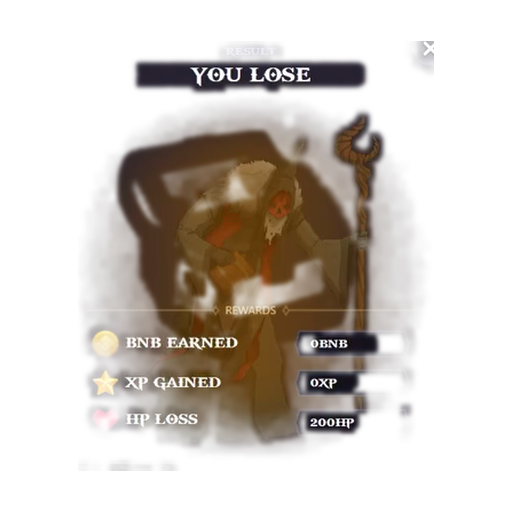
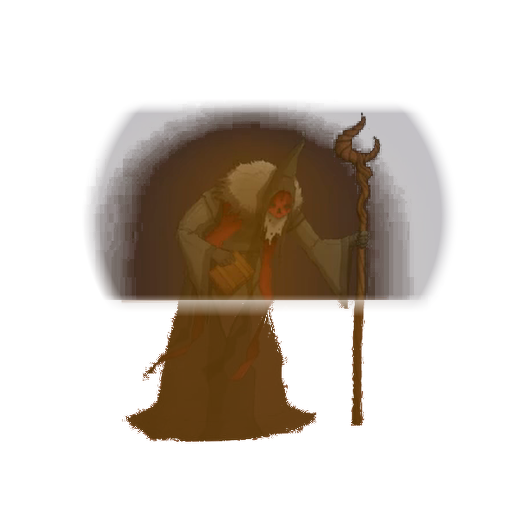
Fix card states and clean RESULT artwork

diff --git a/research/media_hunt/final-promotions/PROVENANCE.md b/research/media_hunt/final-promotions/PROVENANCE.md
@@ -1,19 +1,25 @@
-# Final hashed-media promotion provenance — 2026-09-03
+# Final hashed-media promotion provenance — updated 2026-09-04
 
 This directory records the last six hashed media files that were unavailable as direct 2021 game-client bytes. Raw historical evidence is preserved separately. Runtime derivatives must never be described as byte-identical originals unless explicitly stated.
 
 ## `card.df50fb38.png` — RECONSTRUCTED_FROM_PERIOD_PIXELS
 - Runtime dimensions: 459×654.
 - Source: official BNB HEROES 2021 minting/gameplay video `WZwbq7Va0gg` recovered at 1920×1080.
-- The same open-card slot appears repeatedly in the Town Inn grid. 210 detected occurrences were grouped into the dominant open-card cluster.
-- The period-video cluster was median stacked, edge-trimmed and resized to the exact runtime dimensions.
+- Corrected semantic mapping on 2026-09-04: the open/recruitable slot is the plain BNB HEROES card back, Cluster 2 (45 period occurrences), not the padlock Cluster 0.
+- The period-video cluster was median stacked, edge-trimmed and resized to the exact runtime dimensions using the recovered transform documented in the card proof.
 - See `../card-analysis/CARD_SLOT_RECOVERY_PROOF.md`.
 
 ## `card_lock.c211f00f.png` — RECONSTRUCTED_FROM_PERIOD_PIXELS
 - Runtime dimensions: 459×654.
 - Source: same official 2021 video.
-- 51 repeated locked-card occurrences form a separate visual cluster from the open card.
-- Median stack promoted after exact runtime-size reconstruction.
+- Corrected semantic mapping on 2026-09-04: Town-Inn-locked slots use the padlock artwork, Cluster 0 (210 occurrences). Recovered bundle control flow independently proves module 174 is rendered when `unlock === false` beside `Upgrade Town Inn`.
+- The prior runtime had the padlock and question-mark meanings assigned to the wrong states; pre-correction bytes are preserved under `archive/pre-card-semantic-fix-20260904/`.
+
+## `cards/unkown.png` — RECONSTRUCTED_FROM_PERIOD_PIXELS
+- Runtime dimensions: 459×654.
+- Recovered bundle uses this path for a Hero whose `arrivalTime` is still pending.
+- Official footage shows the yellow question-mark card immediately after Recruit and until EXPEDITE / arrival completes. It is Cluster 1 (51 occurrences).
+- This replaces the restoration-only `HERO ART LOST` placeholder for the pending-arrival state; it is not a generic missing-Hero-art substitute.
 
 ## `recruit_card.aa5e12c7.png` — FIRST_PARTY_PERIOD_ASSET_ADAPTED
 - Runtime dimensions: 459×654.
@@ -26,14 +32,19 @@ This directory records the last six hashed media files that were unavailable as 
 - Runtime dimensions: 512×512.
 - Original bundle proves this image is rendered in the RESULT modal at width 500px beneath DOM text (`RESULT`, `ENEMY DEFEATED`, reward numbers).
 - Period win RESULT evidence exists in `../matters-result/result-win-20211208.png` and the recovered `../video-diff/win/` frame set.
-- Win/lose median frames were compared; the central result-art component is the major changing connected component (approximately x=505..778, y=271..565 in the 1280×720 captured frame set).
-- Runtime derivative uses those period pixels with a soft differential alpha mask on a 512×512 transparent canvas.
+- 2026-09-04 audit found the previous promoted `win-diffart.png` accidentally contained the RESULT title, `ENEMY DEFEATED`, `REWARDS`, BNB/XP/HP labels and value boxes. The bundle renders those separately, causing visible duplicated text in runtime.
+- Corrected runtime uses the period chest/glow aligned from the 8-Dec Matters RESULT screenshot. A second reviewer frame aligns to the same chest geometry with 174/183 SIFT inliers (95.1%), independently validating placement.
+- The exact 2021 modal background and exact `reward-seperator` PNG were recovered from bundle CSS/JS. Only the separator's 16px occlusion footprint requires reconstruction beneath the DOM layer; the final DOM separator covers that footprint again at runtime.
+- See `research/proofs/result-art-cleanup-20260904/PROOF.md`.
 
 ## `You lose.00f95b2b.png` — RECONSTRUCTED_FROM_PERIOD_PIXELS
 - Runtime dimensions: 512×512.
 - Original bundle proves loss condition (`Number(Q.rewards)==0`) renders this image at width 500px with DOM text `You LosE` above it.
 - Recovered period lose-frame set is under `../video-diff/lose/`.
-- Same differential extraction method as win is used, preserving the period loss artwork rather than inventing a replacement.
+- 2026-09-04 audit found the prior promoted `lose-diffart.png` likewise contained title/separator/reward-row DOM pixels and visibly duplicated them in runtime.
+- Corrected art uses the actual period Result Mage + orange glow above the reward separator. The lower Mage pixels hidden by reward-row DOM in the video are reconstructed from the first-party GitBook `Level 2 Skull Enemies.jpg`; SIFT against the period Result view validates the same artwork and target geometry (43/52 inliers at the stable fit before lower-patch use).
+- The lower first-party patch is color-fit only from visible overlapping period Mage pixels and is explicitly a period-derived reconstruction, not original hashed bytes.
+- See `research/proofs/result-art-cleanup-20260904/PROOF.md`.
 
 ## `fight.42bbd04e.png` — RECONSTRUCTED_FROM_PERIOD_PIXELS
 - Runtime dimensions: 512×512.
@@ -45,11 +56,12 @@ This directory records the last six hashed media files that were unavailable as 
 - Superseded creative runtime bytes are archived at `archive/pre-fight-period-recovery-20260903/fight.42bbd04e.png`.
 
 ## Runtime promotion hashes
[11 lines of base64/hex data omitted]
 
 All previous runtime placeholders are preserved under `backups/`.

diff --git a/research/proofs/result-art-cleanup-20260904/PROOF.md b/research/proofs/result-art-cleanup-20260904/PROOF.md
@@ -1,0 +1,97 @@
+# RESULT artwork cleanup proof — 2026-09-04
+
+## What was wrong
+
+The 2026-09-03 restoration promoted `research/media_hunt/result-analysis/reconstructed/win-diffart.png` and `lose-diffart.png` directly into the two legacy hashed RESULT-art paths. Those files were useful differential-analysis intermediates, but they contained more than artwork: the captured RESULT title, win/lose heading, `REWARDS` separator, BNB/XP/HP rows, value boxes, and small modal fragments.
+
+The recovered 17-Nov bundle renders all of those elements separately in DOM. Therefore the intermediate images caused visible duplicated text/rows in the restored runtime. Browser evidence under `research/browser-regression/2026-09-03-boss-result-win.png` shows the duplicated `ENEMY DEFEATED` and overlapping reward rows.
+
+Superseded contaminated bytes are preserved, not deleted:
+
+- `archive/pre-result-cleanup-20260904/rewards.16b2db64.png`
+- `archive/pre-result-cleanup-20260904/You lose.00f95b2b.png`
+
+## Bundle layer proof
+
+The recovered bundle around the Result modal proves this layer order:
+
+1. exact modal frame/background from `.modal .content` CSS;
+2. DOM title `RESULT`;
+3. DOM result heading (`You LosE` or `ENEMY DEFEATED`);
+4. `result-bg` image: `rewards.16b2db64.png` or `You lose.00f95b2b.png`;
+5. separate base64 `reward-seperator` image;
+6. separate DOM BNB / XP / HP rows and value boxes.
+
+The exact original 2021 modal background was recovered from the CSS base64 (694x822 RGBA). The exact original `reward-seperator` was recovered from the JS base64 (582x27 RGBA). This makes it possible to distinguish artwork from UI without guessing which text belongs to which layer.
+
+## Win / treasure artwork
+
+Primary period source:
+
+- committed proof copy: `evidence/win-period-result.png`
+- archaeology workspace source: `research/media_hunt/matters-result/result-win-20211208.png`
+
+The period chest is aligned to the 512x512 legacy result-art geometry using SIFT/RANSAC:
+
+- 372 good matches
+- 325 inliers
+- 87.37% inlier ratio
+
+An independent reviewer Result frame was then aligned to the same chest geometry:
+
+- 183 good matches
+- 174 inliers
+- 95.08% inlier ratio
+
+This independently validates the chest scale/placement rather than deriving geometry from one screenshot.
+
+The original `reward-seperator` fits the aligned period screenshot at approximately `(x=83, y=302, w=336, h=16)` with masked color correlation 0.9037. Because the separator is a separately rendered DOM layer, its thin occlusion footprint is removed from the art derivative. Pixels hidden by that layer cannot be claimed as exact original art; they are reconstructed only underneath the same separator that covers them again at runtime.
+
+Corrected runtime:
+
+- `static/media/rewards.16b2db64.png`
[1 lines of base64/hex data omitted]
+- provenance: **RECONSTRUCTED_FROM_PERIOD_PIXELS**, not original bytes.
+
+## Lose artwork
+
+Primary period Result source:
+
+- committed proof copy: `evidence/lose-period-result.png`
+- archaeology workspace source: `research/media_hunt/video-diff/lose/center-crops/f0088.png`
+
+Period Result crop -> legacy 512 geometry:
+
+- 79 good SIFT matches
+- 71 inliers
+- 89.87% inlier ratio
+
+The visible upper Mage and orange glow are retained from the Result-period pixels through the separator boundary. Reward-row DOM obscures the lower Mage in every surviving Result capture, so the hidden lower body cannot be recovered directly from those screenshots.
+
+A first-party period source contains the same full Mage artwork without Result-row occlusion:
+
+- committed proof copy: `evidence/level2-skull-enemies-first-party.jpg`
+- archaeology workspace source: `research/media_hunt/gitbook-legacy/files/-Mj8uZlLWRG4Pr0rcr-H__Level 2 Skull Enemies.jpg`
+- documented independently as the Level-2 Red Skull Mage in `research/media_hunt/gitbook-legacy/segmentation/TIER2_MAPPING_PROOF.md`.
+
+Feature matching against the visible Result Mage validates identity/geometry at the stable fit:
+
+- 52 good matches
+- 43 inliers
+- 82.69% inlier ratio
+
+Only the lower character pixels hidden by the Result DOM are patched from that first-party period image. Their color transform is fitted from the overlapping visible period Mage. This is explicitly reconstruction, not a claim that the derived file equals the missing hashed response.
+
+Corrected runtime:
+
+- `static/media/You lose.00f95b2b.png`
[1 lines of base64/hex data omitted]
+- provenance: **RECONSTRUCTED_FROM_PERIOD_PIXELS**, not original bytes.
+
+## Regression boundary
+
+The preservation verifier locks both corrected hashes and also locks the two superseded contaminated hashes in their archive directory. A future edit must not silently re-promote the diff-art intermediates.
+
+Machine-readable metrics and hashes are in `PROOF.json`.
+
+Committed visual comparisons for quick review are `evidence/win-runtime-vs-period.jpg` and `evidence/lose-runtime-vs-period.jpg`.
